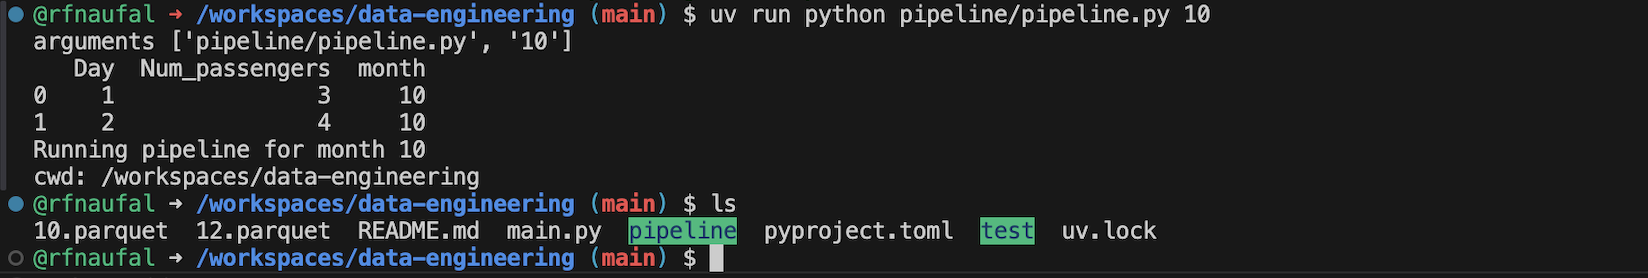
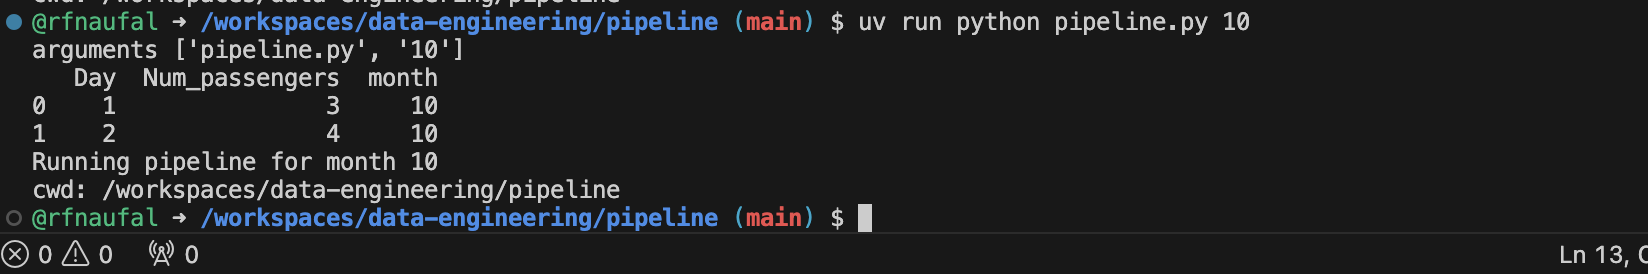
docs:update data-pipeline

Changed region(s): [[0.0, 0.0, 0.7737, 0.9927], [0.9284, 0.8759, 1.0, 0.9635], [0.0619, 0.4088, 0.0928, 0.4672]]

diff --git a/01-docker/guide/02_Data-Pipeline.md b/01-docker/guide/02_Data-Pipeline.md
@@ -20,7 +20,7 @@ We strongly recommend using a virtual environment, which creates an isolated Pyt
 We’ll use uv, a modern and extremely fast Python package + project manager written in Rust. It’s significantly faster than pip and automatically manages virtual environments for your project.
 > pip install uv
 
-Initialize the project
+Initialize the project, ensure you are in the owrking directory to run these:
 
 Create a new Python project using Python 3.13:
 > uv init --python=3.13
@@ -66,7 +66,7 @@ print("cwd:", os.getcwd())
 ```
 
 then run
-> uv run python pipeline/pipeline.py 10
+> uv run python pipeline.py 10
 
 <img src="../screenshots/2-datapipeline-uv.png" width="75%"> <br>
 
